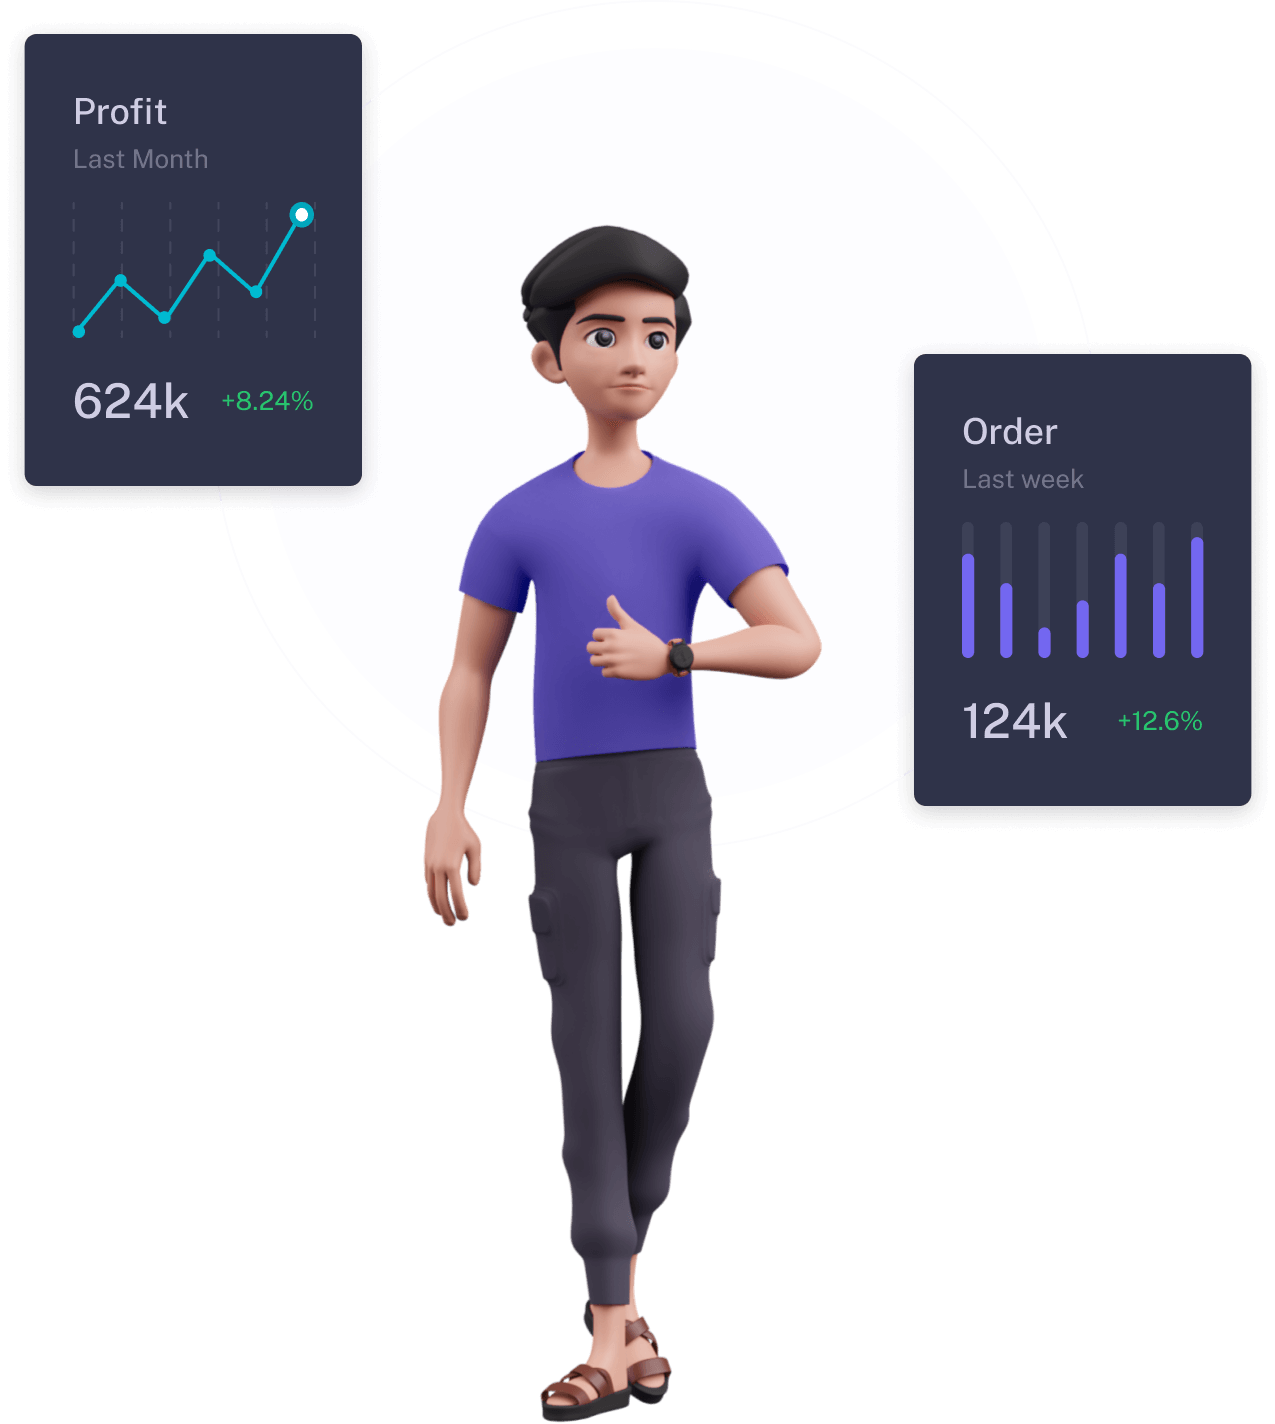
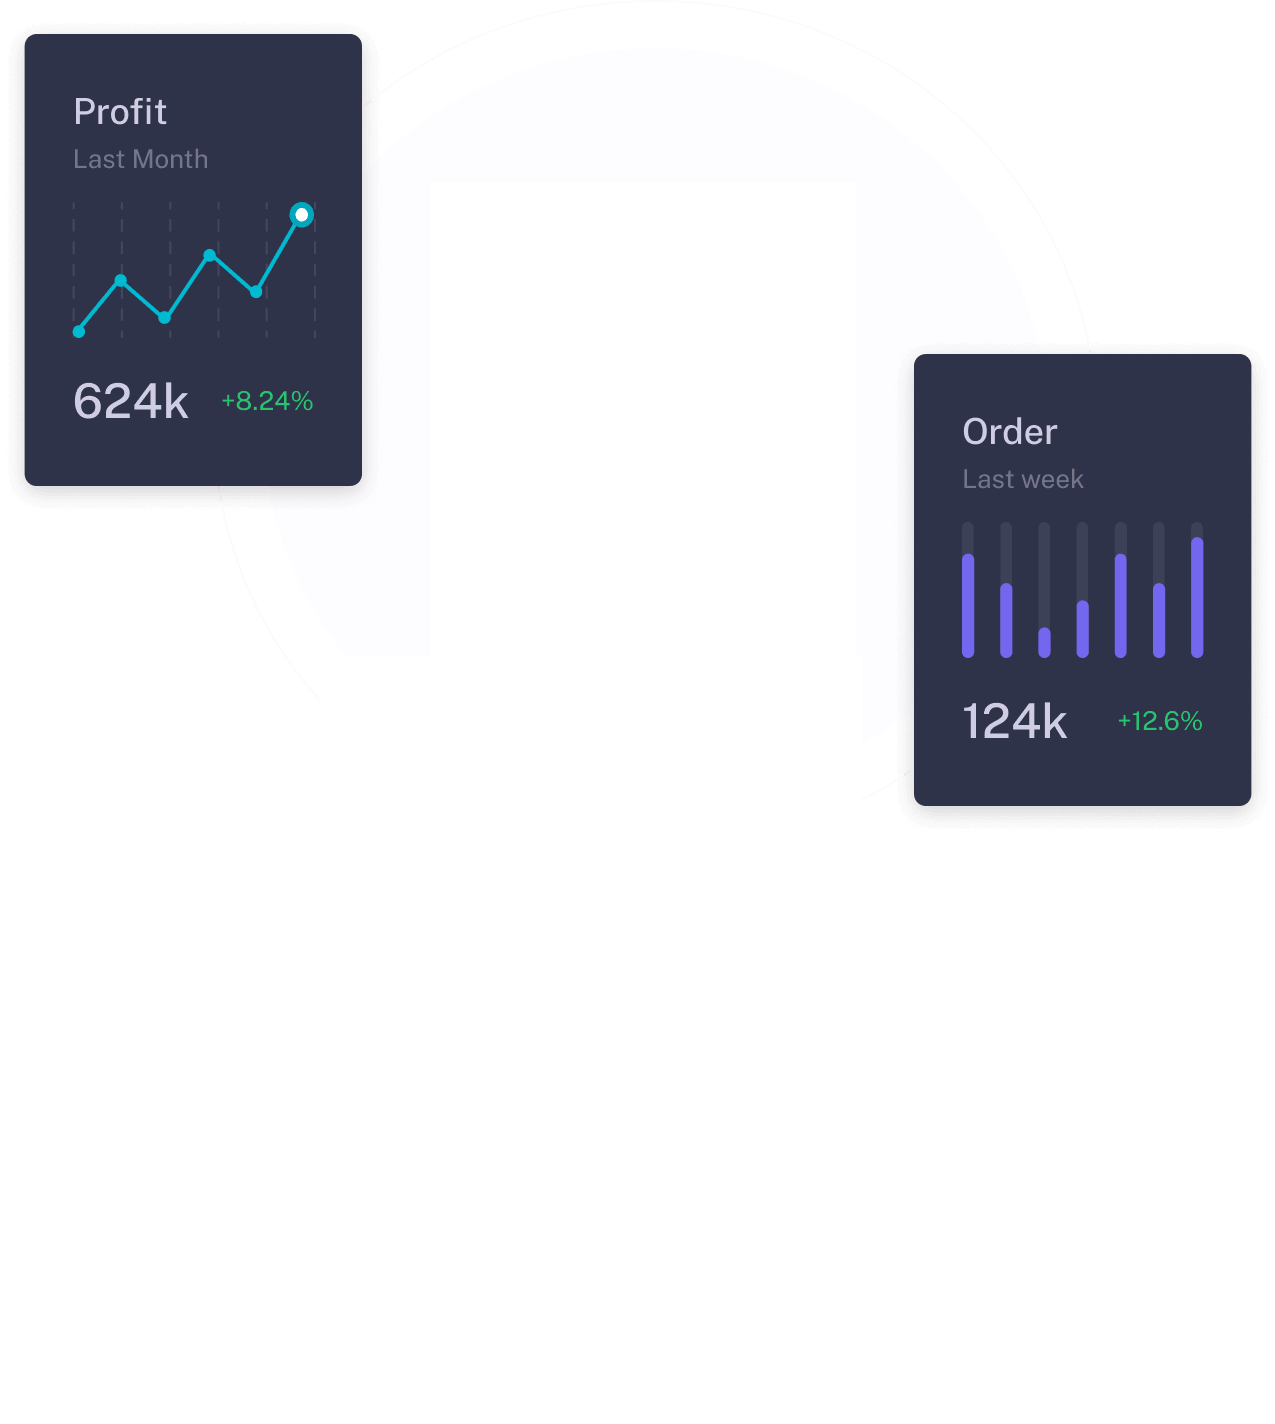
retirada da img de login e retirada de console.log

Changed region(s): [[0.3059, 0.1545, 0.6424, 1.0]]

diff --git a/src/libs/auth.ts b/src/libs/auth.ts
@@ -40,7 +40,7 @@ export const authOptions: NextAuthOptions = {
             body: JSON.stringify({ email, password, rememberMe })
           })
 
-          console.log('res auth', res)
+          //console.log('res auth', res)
           const data = await res.json()
 
           if (res.status === 400 || res.status === 401) {
@@ -66,8 +66,8 @@ export const authOptions: NextAuthOptions = {
               //role: data.userData.roles
             }
 
-            console.log('data', data)
-            console.log('return user', user)
+            //console.log('data', data)
+            //console.log('return user', user)
 
             return user
           }
